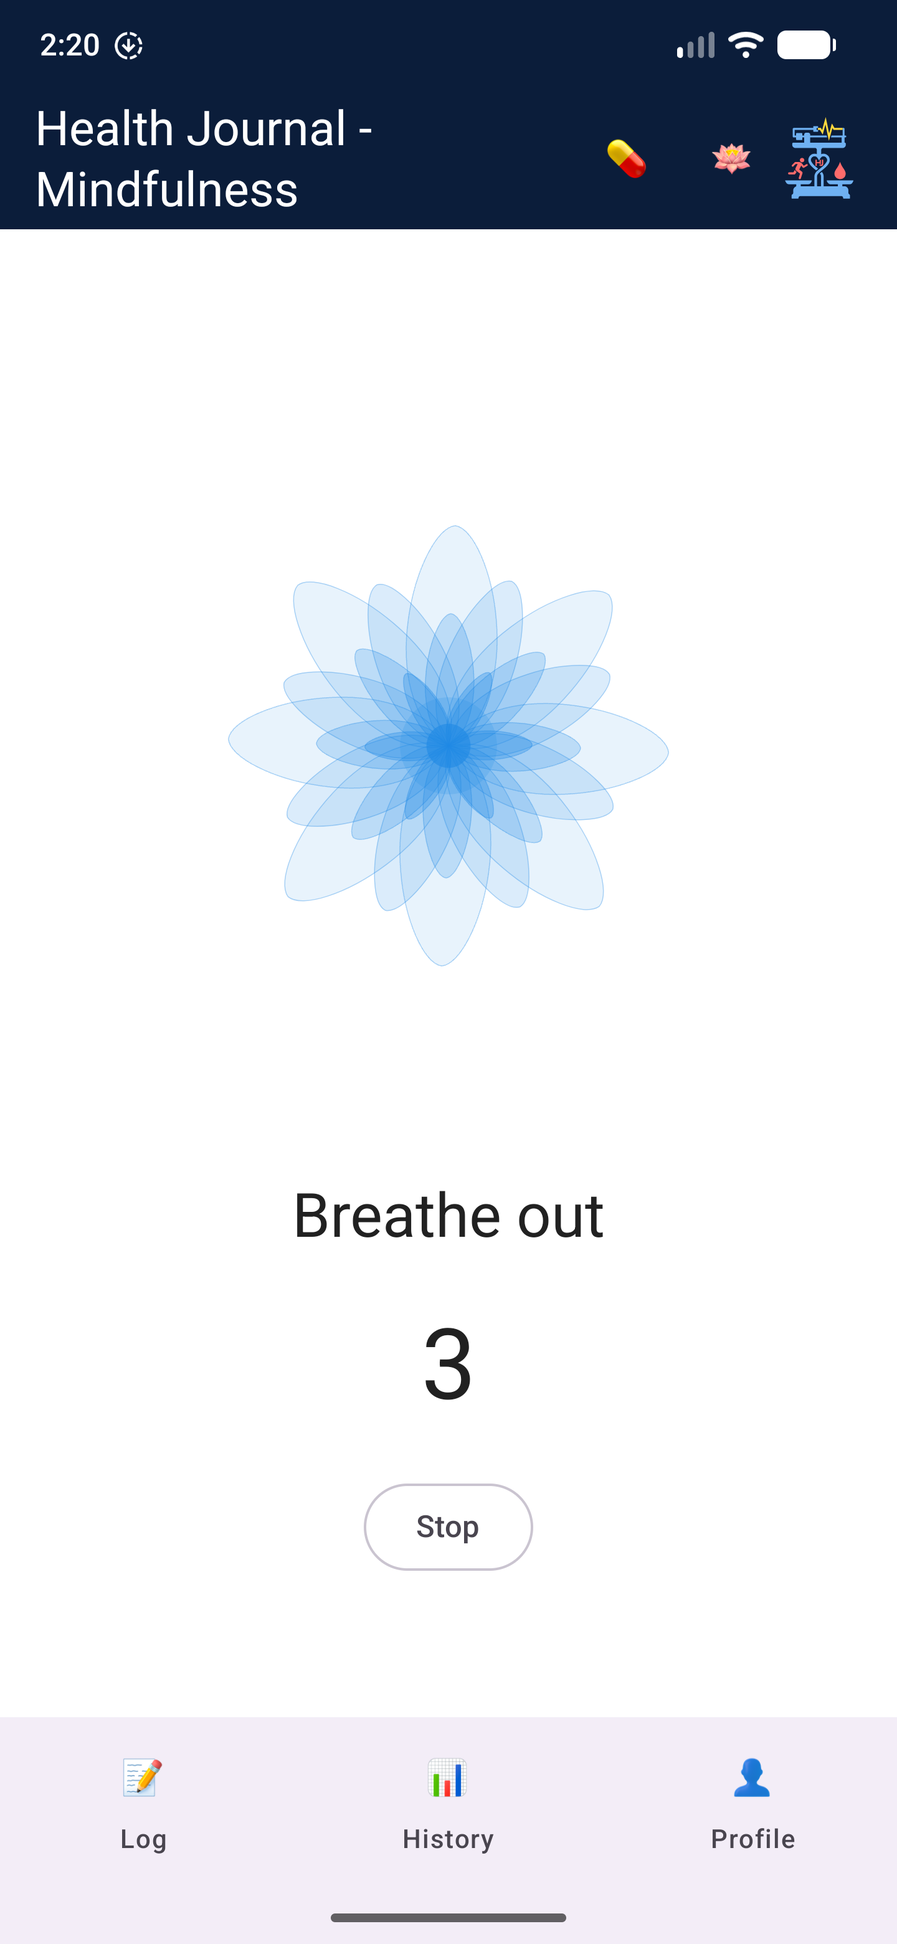
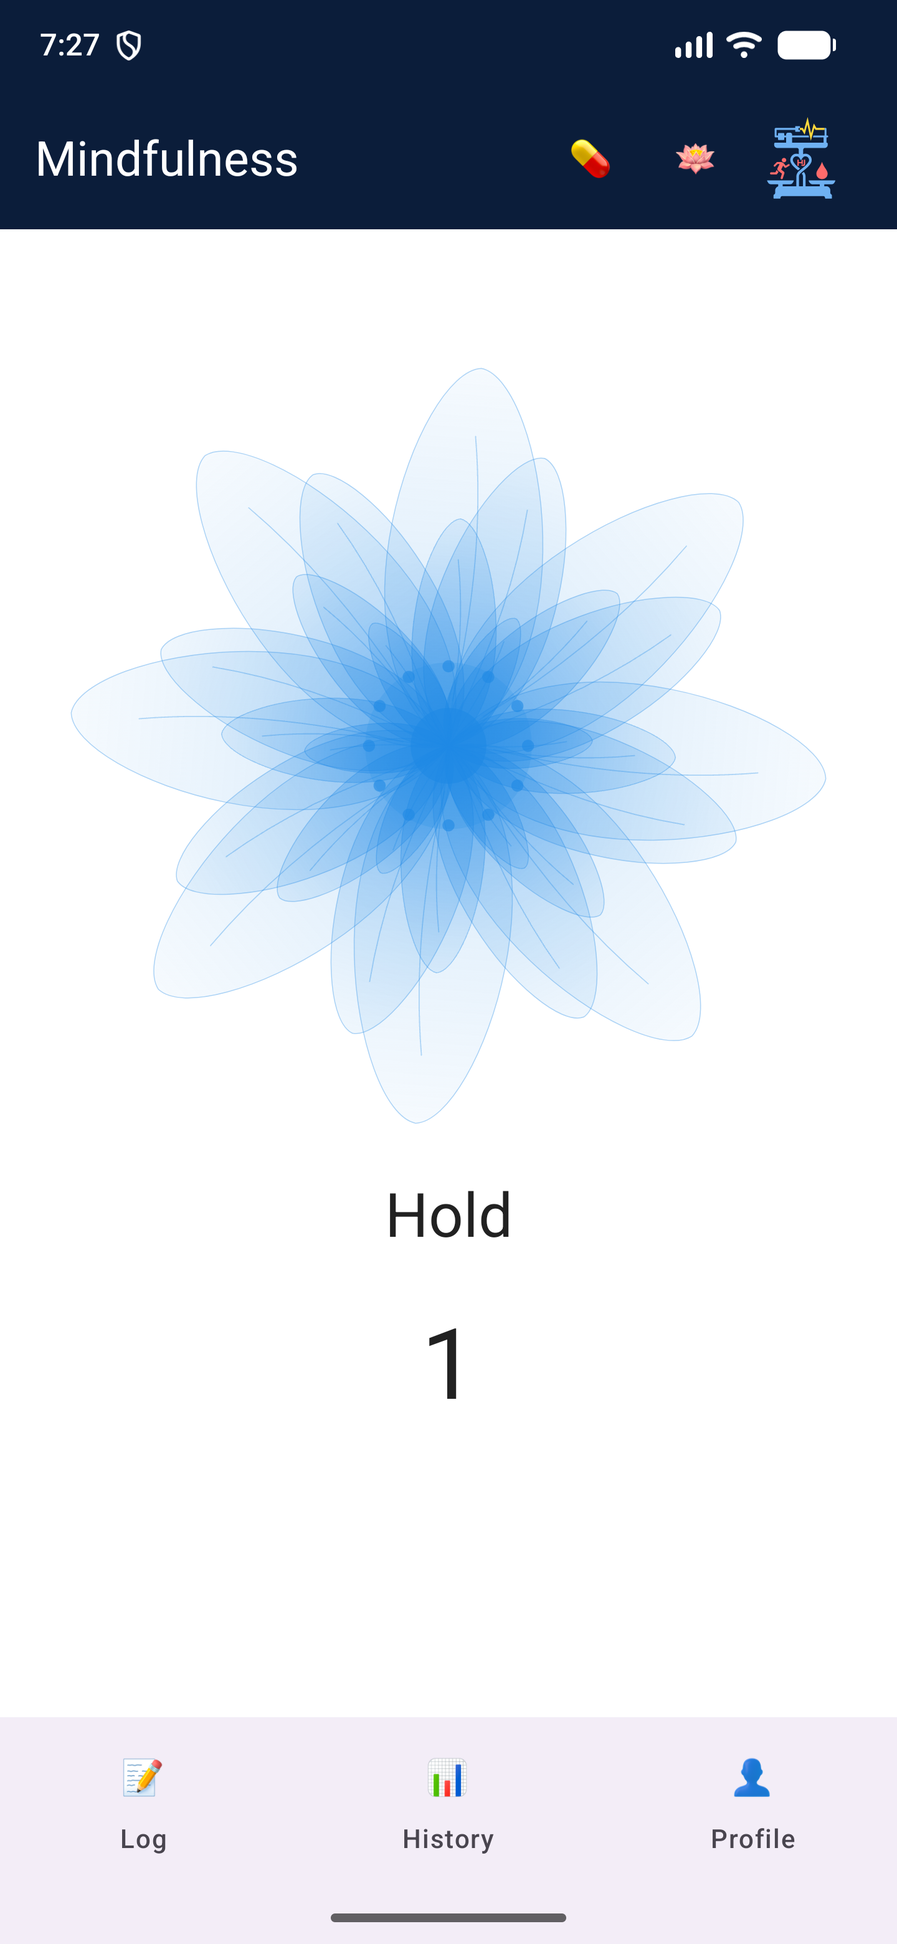
feat: richer lotus, ripple-ring circle and nested square; square dot steps with animations off
The lotus petals get a gradient, an outline and a vein around a ring of
stamens, with the outer petals opening last. The circle becomes a drop with
fourteen thin ripple rings and a slow light band (6 s loop). The square gets
four nested outlines and a longer trail.

With system animations off the square's dot now waits at the start of each
side and jumps at the phase change (it used to keep moving), and the circle's
light band stands still.

Updated screenshots (light, dark, Dutch, narrow with animations off), docs and
changelog.

diff --git a/app/src/main/java/nl/healthjournal/app/ui/mindfulness/BreathingCanvas.kt b/app/src/main/java/nl/healthjournal/app/ui/mindfulness/BreathingCanvas.kt
@@ -12,6 +12,7 @@ import androidx.compose.ui.graphics.Brush
 import androidx.compose.ui.graphics.Color
 import androidx.compose.ui.graphics.Path
 import androidx.compose.ui.graphics.drawscope.DrawScope
+import androidx.compose.ui.graphics.StrokeCap
 import androidx.compose.ui.graphics.StrokeJoin
 import androidx.compose.ui.graphics.drawscope.Stroke
 import androidx.compose.ui.graphics.drawscope.rotate
@@ -28,7 +29,9 @@ private const val MIN_SCALE = 0.35f
 
 /**
  * Draws one frame of the breathing visual. [fill] is 0 (breathed out) to 1 (breathed in);
- * [squareProgress] is 0 to 1 around the square, used only by [BreathingVisual.SQUARE].
+ * [squareProgress] is 0 to 1 around the square, used only by [BreathingVisual.SQUARE]. [drift] is a slow 0 to 1
+ * loop that never stops while the exercise runs, used only by [BreathingVisual.CIRCLE]; it stays 0 when the
+ * user has turned animations off.
  */
 @Composable
 fun BreathingCanvas(
@@ -37,11 +40,12 @@ fun BreathingCanvas(
     squareProgress: Float,
     color: Color,
     modifier: Modifier = Modifier,
+    drift: Float = 0f,
 ) {
     Canvas(modifier = modifier.fillMaxWidth().aspectRatio(1f)) {
         when (visual) {
             BreathingVisual.LOTUS -> drawLotus(fill, color)
-            BreathingVisual.CIRCLE -> drawBreathingCircle(fill, color)
+            BreathingVisual.CIRCLE -> drawBreathingCircle(fill, color, drift)
             BreathingVisual.SQUARE -> drawSquare(squareProgress, color)
         }
     }
@@ -55,25 +59,56 @@ private fun soft(fill: Float): Float {
     return x * x * (3f - 2f * x)
 }
 
-private fun DrawScope.drawBreathingCircle(fill: Float, color: Color) {
+private const val RIPPLES = 14
+
+/** The fraction of the breath the outermost ripple waits before it follows; inner ripples wait less. */
+private const val RIPPLE_LAG = 0.40f
+
+/** How many bright bands travel across the rings at the same time. */
+private const val RIPPLE_WAVES = 3f
+
+/**
+ * Still water with ripples: a drop in the middle and many thin rings around it. On the in-breath the rings spread
+ * outwards one after the other, the outer ones last, like a drop spreading; on the out-breath they draw back in,
+ * the outer ones first. Each ring is a crest with a soft glow and a fainter trough just inside it, and the rings
+ * fade and thin towards the edge. On top of that a band of light travels outwards over the rings without stopping
+ * ([drift], 0 to 1 per loop), which keeps the picture gently alive during the holds as well.
+ */
+private fun DrawScope.drawBreathingCircle(fill: Float, color: Color, drift: Float) {
     val full = min(size.width, size.height) / 2f
-    val radius = full * scaleFor(soft(fill))
+    val t = soft(fill)
     // A faint guide ring marks the fullest breath.
     drawCircle(color.copy(alpha = 0.12f), radius = full, center = center, style = Stroke(width = 1.5f))
-    // Soft layers around the core, from a wide halo to a bright centre.
-    listOf(1.0f to 0.07f, 0.84f to 0.10f, 0.68f to 0.14f, 0.52f to 0.20f).forEach { (share, alpha) ->
-        drawCircle(
-            brush = Brush.radialGradient(
-                colors = listOf(color.copy(alpha = alpha * 0.6f), color.copy(alpha = alpha)),
-                center = center,
-                radius = radius * share
-            ),
-            radius = radius * share,
-            center = center
-        )
+    // The water itself: a barely tinted pool that grows with the outermost ripple.
+    val pool = full * scaleFor(layerOpening(fill, RIPPLE_LAG))
+    drawCircle(
+        brush = Brush.radialGradient(
+            colors = listOf(color.copy(alpha = 0.14f), color.copy(alpha = 0.02f)),
+            center = center,
+            radius = pool
+        ),
+        radius = pool,
+        center = center
+    )
+    // Draw from the outside in, so the brighter inner rings sit on top.
+    for (i in RIPPLES - 1 downTo 0) {
+        val place = i / (RIPPLES - 1f)
+        val radius = full * scaleFor(layerOpening(fill, RIPPLE_LAG * place)) * (0.10f + 0.90f * place)
+        // The travelling band: it moves outwards as drift grows, from the drop to the edge.
+        val band = 0.5f + 0.5f * sin(2f * PI.toFloat() * (place * RIPPLE_WAVES - drift))
+        val strength = (1f - place * 0.8f) * (0.55f + 0.45f * band)
+        val width = 2.6f - 1.5f * place
+        // A wide, faint stroke gives the ring its soft glow.
+        drawCircle(color.copy(alpha = 0.06f * strength), radius = radius, center = center, style = Stroke(width = width * 4f))
+        // The trough, just inside the crest.
+        drawCircle(color.copy(alpha = 0.08f * strength), radius = radius * 0.965f, center = center, style = Stroke(width = 1f))
+        // The crest.
+        drawCircle(color.copy(alpha = 0.10f + 0.50f * strength), radius = radius, center = center, style = Stroke(width = width))
     }
-    drawCircle(color.copy(alpha = 0.3f), radius = radius, center = center, style = Stroke(width = 1.5f))
-    drawCircle(color.copy(alpha = 0.45f), radius = radius * 0.12f, center = center)
+    // The drop at the centre glows brighter as the water fills.
+    val drop = full * 0.06f
+    drawCircle(color.copy(alpha = 0.12f + 0.10f * t), radius = drop * 2.6f, center = center)
+    drawCircle(color.copy(alpha = 0.40f + 0.25f * t), radius = drop, center = center)
 }
 
 /** One ring of petals: how many, how long (share of the full reach), how wide, and how it turns while breathing. */
@@ -84,20 +119,31 @@ private class PetalLayer(
     val width: Float,
     val alpha: Float,
     val turnDegrees: Float,
+    /** Share of the breath the layer waits before it moves: outer petals open last and close first. */
+    val delay: Float,
 )
 
 private val lotusLayers = listOf(
-    PetalLayer(count = 8, offsetDegrees = 0f, length = 1.00f, width = 0.38f, alpha = 0.10f, turnDegrees = 5f),
-    PetalLayer(count = 8, offsetDegrees = 22.5f, length = 0.80f, width = 0.36f, alpha = 0.16f, turnDegrees = -4f),
-    PetalLayer(count = 8, offsetDegrees = 0f, length = 0.60f, width = 0.34f, alpha = 0.22f, turnDegrees = 3f),
-    PetalLayer(count = 6, offsetDegrees = 30f, length = 0.38f, width = 0.32f, alpha = 0.30f, turnDegrees = -2f),
+    PetalLayer(count = 8, offsetDegrees = 0f, length = 1.00f, width = 0.38f, alpha = 0.10f, turnDegrees = 5f, delay = 0.30f),
+    PetalLayer(count = 8, offsetDegrees = 22.5f, length = 0.80f, width = 0.36f, alpha = 0.16f, turnDegrees = -4f, delay = 0.20f),
+    PetalLayer(count = 8, offsetDegrees = 0f, length = 0.60f, width = 0.34f, alpha = 0.22f, turnDegrees = 3f, delay = 0.10f),
+    PetalLayer(count = 6, offsetDegrees = 30f, length = 0.38f, width = 0.32f, alpha = 0.30f, turnDegrees = -2f, delay = 0f),
 )
+
+private const val STAMENS = 12
+
+/** Where a layer is in its own opening: 0 closed to 1 open, starting after [PetalLayer.delay] of the breath. */
+private fun layerOpening(fill: Float, delay: Float): Float =
+    soft(((fill.coerceIn(0f, 1f) - delay) / (1f - delay)).coerceIn(0f, 1f))
 
 private fun DrawScope.drawLotus(fill: Float, color: Color) {
     val t = soft(fill)
-    val maxReach = min(size.width, size.height) / 2f * scaleFor(t)
+    val full = min(size.width, size.height) / 2f
+    val maxReach = full * scaleFor(t)
     lotusLayers.forEach { layer ->
-        val reach = maxReach * layer.length
+        // Each ring follows the breath a little later than the one inside it, so the flower unfolds from the
+        // centre outwards and folds back from the outside in.
+        val reach = full * scaleFor(layerOpening(fill, layer.delay)) * layer.length
         val width = reach * layer.width * 0.8f
         val petal = Path().apply {
             moveTo(0f, 0f)
@@ -105,23 +151,46 @@ private fun DrawScope.drawLotus(fill: Float, color: Color) {
             cubicTo(-width * 0.55f, -reach * 0.98f, -width * 1.2f, -reach * 0.22f, 0f, 0f)
             close()
         }
+        // The vein runs up the middle of the petal and bends a little, as on a real petal.
+        val vein = Path().apply {
+            moveTo(0f, -reach * 0.12f)
+            quadraticTo(width * 0.18f, -reach * 0.5f, 0f, -reach * 0.82f)
+        }
+        // Deeper at the base and lighter at the tip.
+        val shade = Brush.linearGradient(
+            colors = listOf(color.copy(alpha = layer.alpha * 1.8f), color.copy(alpha = layer.alpha * 0.45f)),
+            start = Offset.Zero,
+            end = Offset(0f, -reach),
+        )
         for (i in 0 until layer.count) {
             val degrees = 360f / layer.count * i + layer.offsetDegrees + layer.turnDegrees * t
             rotate(degrees = degrees, pivot = center) {
                 translate(left = center.x, top = center.y) {
-                    drawPath(petal, color.copy(alpha = layer.alpha))
+                    drawPath(petal, shade)
                     drawPath(petal, color.copy(alpha = 0.35f), style = Stroke(width = 1.5f, join = StrokeJoin.Round))
+                    drawPath(vein, color.copy(alpha = 0.32f), style = Stroke(width = 1.8f, cap = StrokeCap.Round))
                 }
             }
         }
     }
     val glow = maxReach * 0.1f
     drawCircle(color.copy(alpha = 0.18f), radius = glow * 2.2f, center = center)
+    // Small stamens around the heart; they brighten as the flower opens.
+    for (i in 0 until STAMENS) {
+        val angle = (2.0 * PI * i / STAMENS).toFloat()
+        val ring = glow * (1.5f + 0.6f * t)
+        drawCircle(
+            color.copy(alpha = 0.2f + 0.4f * t),
+            radius = glow * 0.16f,
+            center = Offset(center.x + ring * cos(angle), center.y + ring * sin(angle))
+        )
+    }
     drawCircle(color.copy(alpha = 0.6f), radius = glow, center = center)
 }
 
-private const val TRAIL_STEPS = 16
-private const val TRAIL_STEP = 0.012f
+private const val TRAIL_STEPS = 36
+private const val TRAIL_STEP = 0.007f
+private const val INNER_SQUARES = 4
 
 /**
  * A point on a rounded square, [progress] 0..1 clockwise. The four quarters start and end in the middle of a
@@ -161,6 +230,19 @@ private fun DrawScope.drawSquare(progress: Float, color: Color) {
     val topLeft = Offset((size.width - side) / 2f, (size.height - side) / 2f)
     val rounding = CornerRadius(corner, corner)
     drawRoundRect(color.copy(alpha = 0.05f), topLeft = topLeft, size = Size(side, side), cornerRadius = rounding)
+    // Fainter squares nested inside the outline, like the rings of the circle.
+    for (n in 1..INNER_SQUARES) {
+        val inset = side * 0.055f * n
+        val inner = side - 2f * inset
+        val r = (corner - inset).coerceAtLeast(side * 0.04f)
+        drawRoundRect(
+            color.copy(alpha = 0.16f * (1f - n / (INNER_SQUARES + 1f))),
+            topLeft = Offset(topLeft.x + inset, topLeft.y + inset),
+            size = Size(inner, inner),
+            cornerRadius = CornerRadius(r, r),
+            style = Stroke(width = 1.5f, join = StrokeJoin.Round)
+        )
+    }
     drawRoundRect(
         color.copy(alpha = 0.25f),
         topLeft = topLeft,
@@ -169,14 +251,14 @@ private fun DrawScope.drawSquare(progress: Float, color: Color) {
         style = Stroke(width = 4f, join = StrokeJoin.Round)
     )
     val p = progress.coerceIn(0f, 1f)
-    // A fading trail behind the dot, then a soft halo and the dot itself.
+    // A fading comet trail behind the dot, then a soft halo and the dot itself.
     for (i in TRAIL_STEPS downTo 1) {
         val at = p - i * TRAIL_STEP
         if (at < 0f) continue
         val fade = 1f - i / (TRAIL_STEPS + 1f)
         drawCircle(
-            color.copy(alpha = 0.28f * fade),
-            radius = side * 0.03f * fade,
+            color.copy(alpha = 0.34f * fade * fade),
+            radius = side * 0.036f * fade,
             center = squarePoint(at, topLeft, side, corner)
         )
     }

diff --git a/app/src/main/java/nl/healthjournal/app/ui/mindfulness/BreathingExerciseScreen.kt b/app/src/main/java/nl/healthjournal/app/ui/mindfulness/BreathingExerciseScreen.kt
@@ -104,9 +104,11 @@ fun BreathingExerciseScreen(
         BreathingCanvas(
             visual = visual,
             fill = fill,
-            squareProgress = squareProgress(timer.pattern, state),
+            squareProgress = squareProgress(timer.pattern, state, reduceMotion),
             color = MaterialTheme.colorScheme.primary,
-            modifier = Modifier.padding(horizontal = 8.dp)
+            modifier = Modifier.padding(horizontal = 8.dp),
+            // One slow loop every six seconds, standing still when system animations are off.
+            drift = if (reduceMotion) 0f else (elapsed % DRIFT_MILLIS) / DRIFT_MILLIS.toFloat()
         )
         val label = when (state) {
             is BreathingState.Ready -> stringResource(R.string.breathing_ready)
@@ -140,11 +142,17 @@ private fun steppedFill(kind: BreathingPhaseKind): Float = when (kind) {
     BreathingPhaseKind.EXHALE, BreathingPhaseKind.HOLD_EMPTY -> 0f
 }
 
-/** The dot travels one side of the square per phase of box breathing; other patterns just use their phase share. */
-private fun squareProgress(pattern: BreathingPattern, state: BreathingState): Float {
+/** Length of one loop of the light band that travels over the circle's ripples. */
+private const val DRIFT_MILLIS = 6_000L
+
+/**
+ * The dot travels one side of the square per phase of box breathing; other patterns just use their phase share.
+ * With system animations off it waits at the start of each side and jumps at the phase change.
+ */
+private fun squareProgress(pattern: BreathingPattern, state: BreathingState, reduceMotion: Boolean): Float {
     if (state !is BreathingState.Running) return 0f
     val sides = pattern.phases.size.coerceAtLeast(1)
-    return (state.phaseIndex + state.phaseProgress) / sides
+    return (state.phaseIndex + if (reduceMotion) 0f else state.phaseProgress) / sides
 }
 
 internal fun phaseLabel(kind: BreathingPhaseKind): Int = when (kind) {

diff --git a/docs/dev/mindfulness-feature.md b/docs/dev/mindfulness-feature.md
@@ -47,8 +47,8 @@ Lengths are 1, 3 or 5 minutes. Every exercise starts with a 3 second "Get ready"
 - **Nothing is recorded.** No history, streaks, counts or results. The only stored values are display choices: pattern, length, picture, meditation minutes and interval, cues on or off with the voice name, and whether the safety note was acknowledged.
 - **Works offline.** No network permission. Spoken cues use the phone's own text-to-speech; recordings are inside the app.
 - **The screen stays on** during an exercise and returns to normal afterwards.
-- **Soft, calm pictures.** No hard edges: the lotus is four rings of rounded petals, the circle is soft gradient layers, and the square has rounded corners with a dot that leaves a fading trail. Shapes ease in and out and turn only a few degrees.
-- **Reduced motion.** When system animations are off, the picture jumps between full and empty instead of moving.
+- **Soft, calm pictures.** No hard edges: the lotus is four rings of rounded petals (each with a soft gradient, an outline and a vein, around a ring of stamens, the outer rings opening last and closing first), the circle is a drop in the middle of fourteen thin ripple rings that spread on the in-breath and draw in on the out-breath while a light band slowly travels outwards through them (one loop every six seconds), and the square has rounded corners, four fainter outlines nested inside it, and a dot that leaves a fading trail. Shapes ease in and out and turn only a few degrees.
+- **Reduced motion.** When system animations are off, the lotus and the circle jump between full and empty instead of moving, the circle's light band stands still, and the square's dot waits at the start of each side and jumps at the phase change. Nothing animates continuously.
 - **Language.** Everything is in English and Dutch. Recordings are English for now; items whose audio matches the app language are listed first.
 - **Safety first.** A short note on first open, a reminder on pausing the breath, and the full text under "About these exercises". Wording: [mindfulness.md](mindfulness.md#2-safety-note).
 
@@ -189,7 +189,7 @@ stateDiagram-v2
     Done --> [*]
 ```
 
-The screen draws `fill` directly. The square picture ignores `fill` and moves a dot one side per phase (`phaseIndex + phaseProgress` over the number of phases), so it only reads as a true "box" for box breathing. Every picture eases `fill` with a smoothstep (`soft` in `BreathingCanvas.kt`) before drawing, which is only a drawing choice: the timer's `fill` stays linear and is what the tests check.
+The screen draws `fill` directly. The square picture ignores `fill` and moves a dot one side per phase (`phaseIndex + phaseProgress` over the number of phases, or just `phaseIndex` with system animations off), so it only reads as a true "box" for box breathing. The circle also gets `drift`, a 0 to 1 value that loops every six seconds (`DRIFT_MILLIS` in `BreathingExerciseScreen.kt`) and moves the light band over its rings; it stays 0 with system animations off. `drift` is a drawing input only: the timer, the cues and the tests do not use it. Every picture eases `fill` with a smoothstep (`soft` in `BreathingCanvas.kt`) before drawing, which is only a drawing choice: the timer's `fill` stays linear and is what the tests check.
 
 ### What happens while an exercise runs
 

diff --git a/docs/screenshots.md b/docs/screenshots.md
@@ -100,9 +100,10 @@ All screenshots of the Health Journal app, in the light and dark theme. Back to 
 | <img src="screenshots/light-mindfulness-meditate.png" width="250" alt="Meditation timer counting down with a Stop button, light theme"> | <img src="screenshots/dark-mindfulness-meditate.png" width="250" alt="Meditation timer counting down with a Stop button, dark theme"> |
 | <img src="screenshots/light-mindfulness-guided.png" width="250" alt="List of guided recordings with title, description and length, light theme"> | <img src="screenshots/dark-mindfulness-guided.png" width="250" alt="List of guided recordings with title, description and length, dark theme"> |
 | <img src="screenshots/light-mindfulness-guided-player.png" width="250" alt="Guided recording playing, with progress, time, Pause and Back and the credit line, light theme"> | <img src="screenshots/dark-mindfulness-guided-player.png" width="250" alt="Guided recording ready to play, with progress, time, Play and Back and the credit line, dark theme"> |
-| <img src="screenshots/light-mindfulness-circle.png" width="250" alt="Breathing exercise with the circle picture, light theme"> | <img src="screenshots/light-mindfulness-square.png" width="250" alt="Breathing exercise with the rounded square picture and a dot moving along it, light theme"> |
+| <img src="screenshots/light-mindfulness-circle.png" width="250" alt="Breathing exercise with the circle picture, a drop in the middle and fourteen thin ripple rings, light theme"> | <img src="screenshots/dark-mindfulness-circle.png" width="250" alt="Breathing exercise with the circle picture, a drop in the middle and fourteen thin ripple rings, dark theme"> |
+| <img src="screenshots/light-mindfulness-square.png" width="250" alt="Breathing exercise with the rounded square picture, four nested outlines and a dot with a fading trail, light theme"> | <img src="screenshots/dark-mindfulness-square.png" width="250" alt="Breathing exercise with the rounded square picture, four nested outlines and a dot with a fading trail, dark theme"> |
 
-Mindfulness in Dutch (light theme, except the last one). The last picture is the dark theme on a 320 dp wide phone with system animations turned off: the dot jumps between the corners and the Stop button has already hidden.
+Mindfulness in Dutch (light theme, except the last one). The last picture is the dark theme on a 320 dp wide phone with system animations turned off: the dot waits at a corner and jumps to the next one at each phase change, the rings and the light band stand still, and the Stop button has already hidden. The pictures above are a still moment in the hold; the circle and the lotus move during the breath, so a still cannot show the motion.
 
 | | |
 |-------|------|

diff --git a/CHANGELOG.md b/CHANGELOG.md
@@ -4,7 +4,11 @@ All notable changes to Health Journal. Format follows [Keep a Changelog](https:/
 
 ## [Unreleased]
 
+### Changed
+- **Richer breathing pictures:** the lotus petals now have a soft gradient, an outline and a vein, around a ring of stamens, and the outer petals open last and close first. The circle is now a drop with fourteen thin ripple rings that spread as you breathe in and draw in as you breathe out, with a light band that slowly travels outwards. The square gets four fainter outlines nested inside it and a longer, softer trail behind the dot. Drawing only: the timing, cues and wording are unchanged.
+
 ### Fixed
+- **Square breathing picture with animations off:** the dot kept moving smoothly around the square even when system animations were turned off. It now waits at the start of each side and jumps at the phase change, as the other pictures do. The circle's travelling light band also stands still then.
 - **Encryption migration:** when moving the database to encrypted storage fails, a file that cannot be put back or deleted is now reported instead of ignored. The app no longer opens a database beside a set-aside `-wal` or `-journal` file that was not restored, and a migration with undeleted plain copies is no longer reported as done; the next start retries the deletion.
 - **Backups:** Android cloud backup and device transfer now also skip the set-aside plain copies and the temporary encrypted file the migration can leave behind.
 - **CSV import:** cancelling an import now stops it, instead of being counted as a skipped row.

diff --git a/docs/dev/design.md b/docs/dev/design.md
@@ -124,7 +124,7 @@ Missed is never stored: it is Pending plus the clock. Correcting a past outcome 
 
 | Concern | Rule |
 |---|---|
-| Looks | soft shapes only: rounded petals, gradient circle, rounded square with a fading dot. Slow easing. With system animations off the picture jumps between full and empty |
+| Looks | soft shapes only: rounded petals, thin ripple rings, rounded square with a fading dot. Slow easing. With system animations off the picture jumps between full and empty (the square's dot between corners) and nothing moves continuously |
 | During a run | the screen stays on, nothing else appears, and the Stop button fades after 4 seconds and returns on touch (always visible with a screen reader and when done) |
 | What ends a run | Stop, Back, the app going to the background, a call or an alarm taking the audio focus, or the end. Everything is released in one place (`ExerciseSession`) |
 | System settings | never changed: no volume, ringer mode, Do Not Disturb or brightness |
